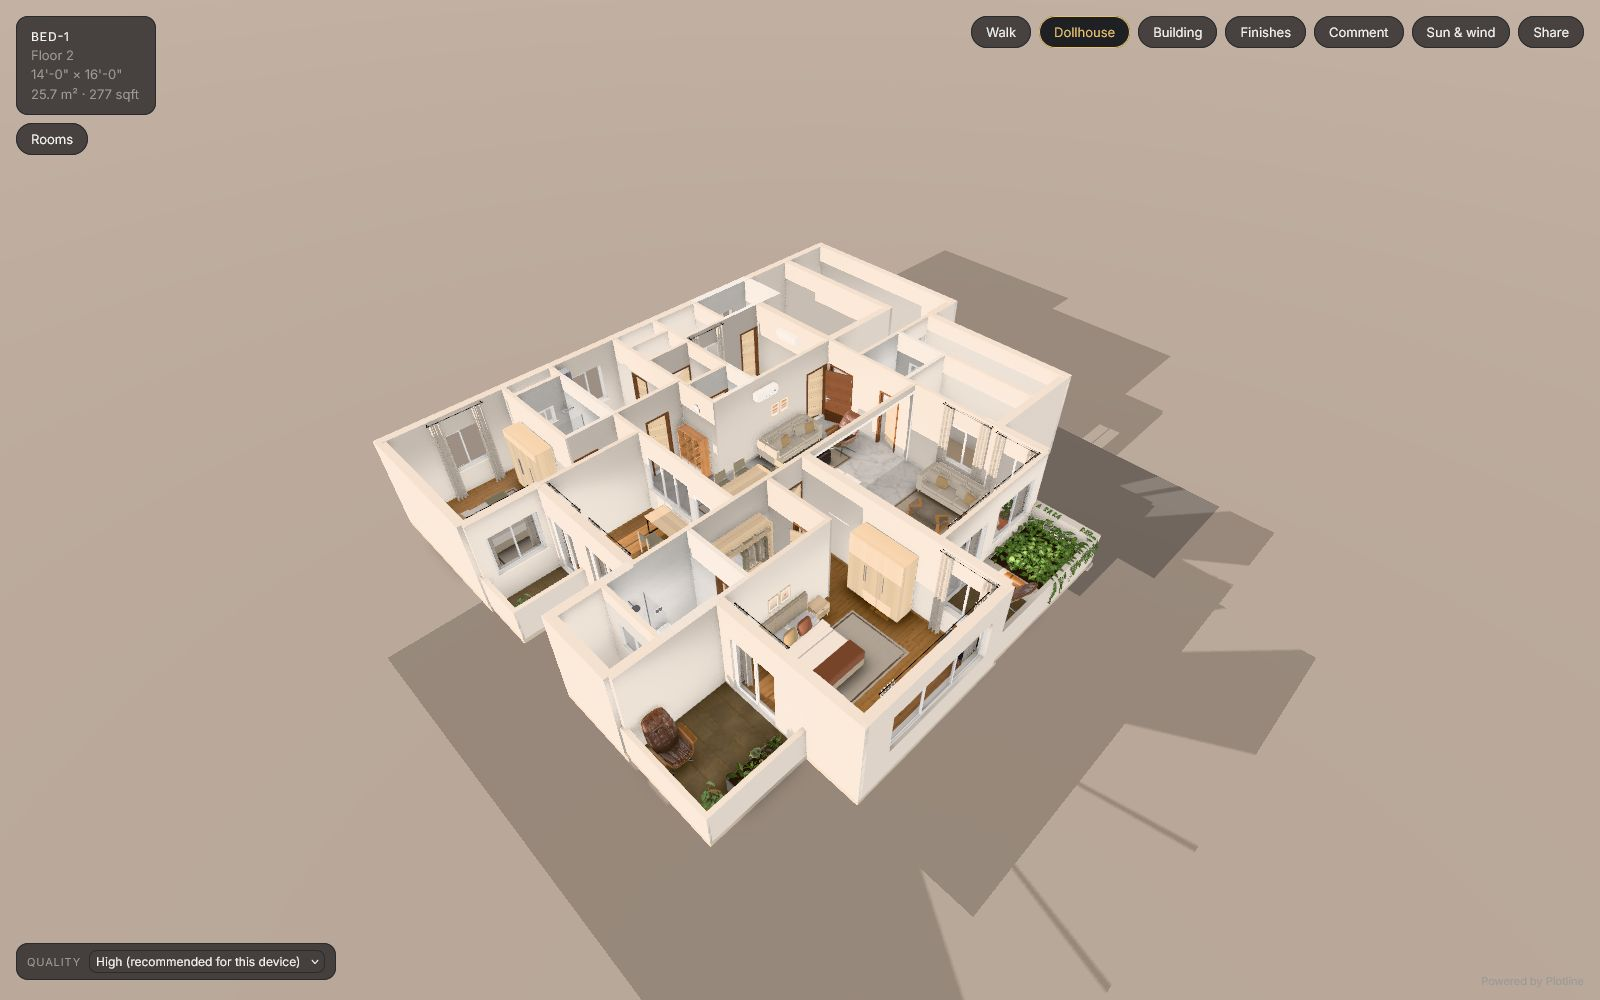
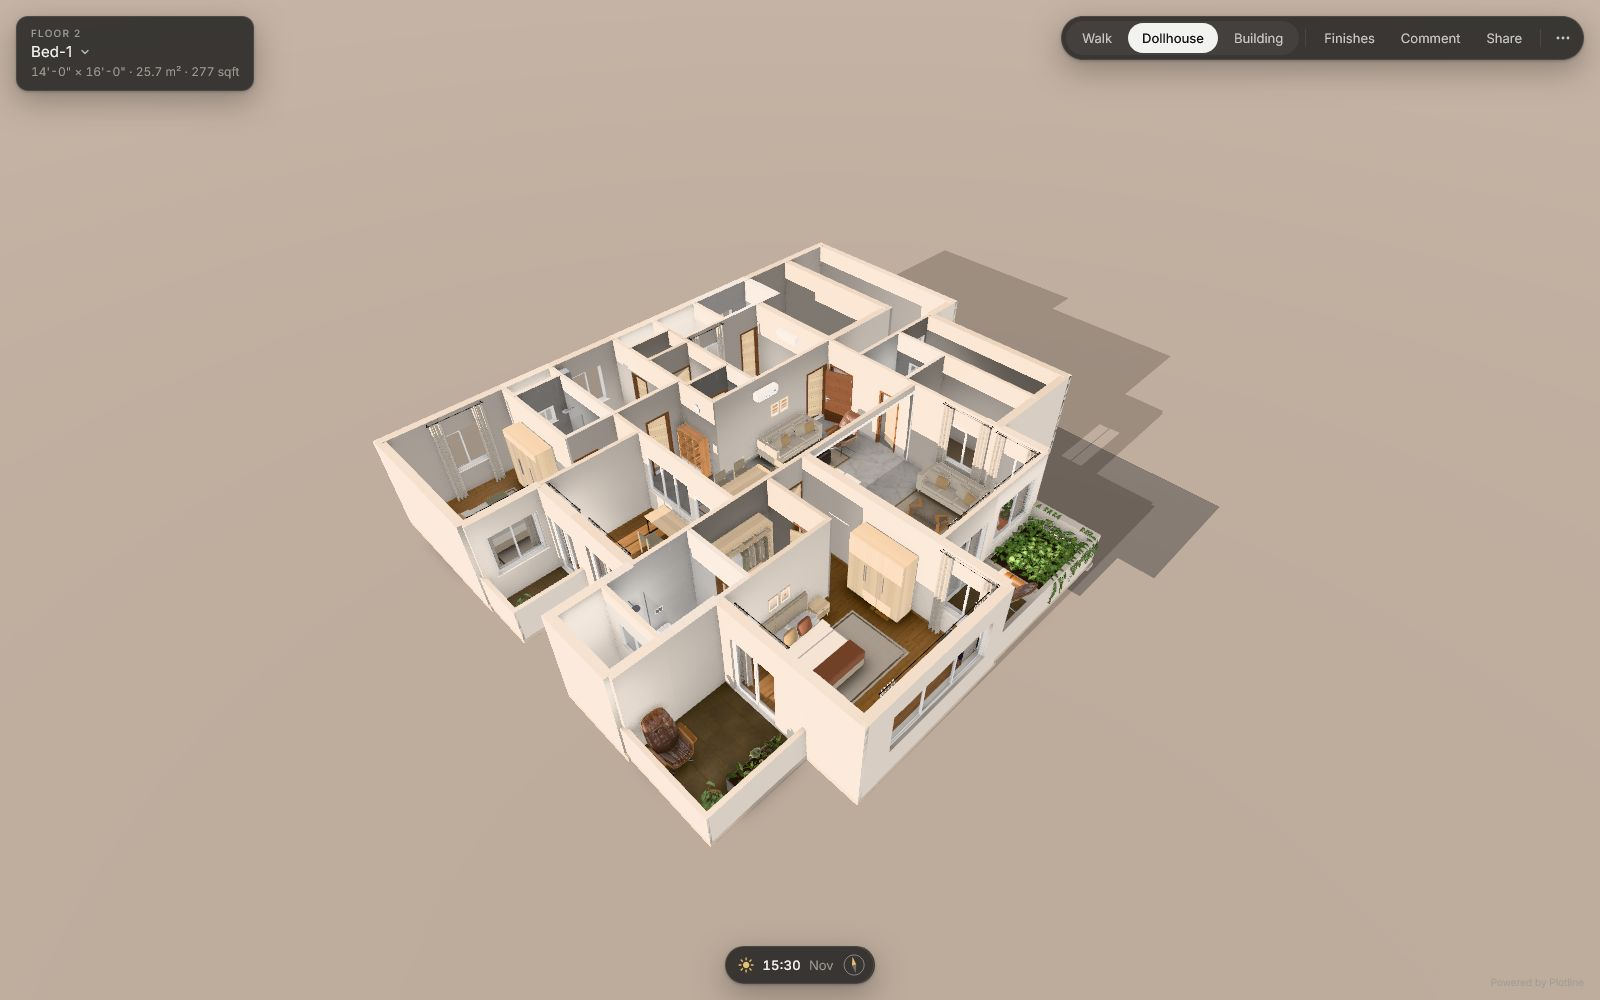
Front page: the six product pictures retaken with the new 3D look (one calm bar, the Sun & wind pill and card)
The pictures still showed the old buttons (the Rooms button, Sun & wind on the bar, the Quality box). Retaken from a
buyer's view of Type A in Firefox, same rooms and hours as the captions say: dining 15:30, Finishes open, living room,
bedroom 1 at 08:00 with the Sun & wind card open, Dollhouse, Building. The bedroom picture's description no longer says
sunlight falls across the bed: with the neighbours now 2-4 m away (session 30), the building across the street shades
Bed-1's windows at 08:00 in November, so it says what the picture shows (the card: time, day, months, compass).

Script: E:/dev/tmp/s30/qa/shots2.mjs (the landing lane's, with the new HUD's clicks).

diff --git a/src/landing/Landing.tsx b/src/landing/Landing.tsx
@@ -351,7 +351,7 @@ export default function Landing() {
           </ul>
           <div className="pair">
             <Shot src="finishes" alt="The Finishes panel open in the 3D walk: floor options, each with its price difference in taka" caption="Finishes · each option with its price difference" />
-            <Shot src="sun" alt="A bedroom in the 3D walk at 8 in the morning, sunlight falling across the bed, with the day and time bar open" caption="Sun · bedroom 1 at 08:00, the site's real sun" />
+            <Shot src="sun" alt="A bedroom in the 3D walk at 8 in the morning, the Sun & wind card open: the time, the day, the twelve months and a compass" caption="Sun · bedroom 1 at 08:00, the site's real sun" />
           </div>
         </section>
 
